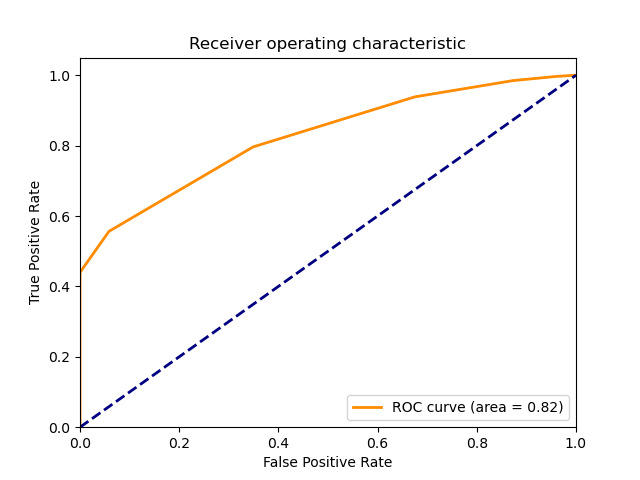
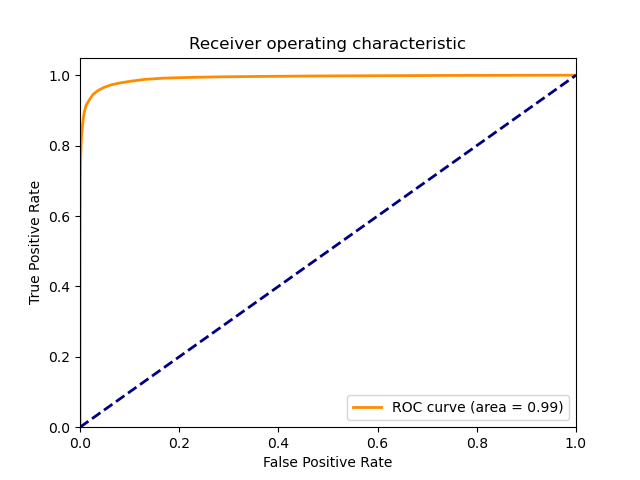
?

diff --git a/nets/ConvNext/convNext-cbam.py b/nets/ConvNext/convNext-cbam.py
@@ -1,0 +1,256 @@
+"""
+original code from facebook research:
+https://github.com/facebookresearch/ConvNeXt
+"""
+
+import torch
+import torch.nn as nn
+import torch.nn.functional as F
+
+
+class ChannelAttention(nn.Module):
+    def __init__(self, in_planes, ratio=16):
+        super(ChannelAttention, self).__init__()
+        self.avg_pool = nn.AdaptiveAvgPool2d(1)
+        self.max_pool = nn.AdaptiveMaxPool2d(1)
+
+        self.fc = nn.Sequential(nn.Conv2d(in_planes, in_planes // 16, 1, bias=True),
+                                nn.ReLU(),
+                                nn.Conv2d(in_planes // 16, in_planes, 1, bias=True))
+        self.sigmoid = nn.Sigmoid()
+
+    def forward(self, x):
+        avg_out = self.fc(self.avg_pool(x))
+        max_out = self.fc(self.max_pool(x))
+        out = avg_out + max_out
+        return self.sigmoid(out)
+
+
+class SpatialAttention(nn.Module):
+    def __init__(self, kernel_size=7):
+        super(SpatialAttention, self).__init__()
+
+        self.conv1 = nn.Conv2d(2, 1, kernel_size, padding=kernel_size // 2, bias=True)
+        self.sigmoid = nn.Sigmoid()
+
+    def forward(self, x):
+        avg_out = torch.mean(x, dim=1, keepdim=True)
+        max_out, _ = torch.max(x, dim=1, keepdim=True)
+        x = torch.cat([avg_out, max_out], dim=1)
+        x = self.conv1(x)
+        return self.sigmoid(x)
+
+def drop_path(x, drop_prob: float = 0., training: bool = False):
+    """Drop paths (Stochastic Depth) per sample (when applied in main path of residual blocks).
+
+    This is the same as the DropConnect impl I created for EfficientNet, etc networks, however,
+    the original name is misleading as 'Drop Connect' is a different form of dropout in a separate paper...
+    See discussion: https://github.com/tensorflow/tpu/issues/494#issuecomment-532968956 ... I've opted for
+    changing the layer and argument names to 'drop path' rather than mix DropConnect as a layer name and use
+    'survival rate' as the argument.
+
+    """
+    if drop_prob == 0. or not training:
+        return x
+    keep_prob = 1 - drop_prob
+    shape = (x.shape[0],) + (1,) * (x.ndim - 1)  # work with diff dim tensors, not just 2D ConvNets
+    random_tensor = keep_prob + torch.rand(shape, dtype=x.dtype, device=x.device)
+    random_tensor.floor_()  # binarize
+    output = x.div(keep_prob) * random_tensor
+    return output
+
+
+class DropPath(nn.Module):
+    """Drop paths (Stochastic Depth) per sample  (when applied in main path of residual blocks).
+    """
+    def __init__(self, drop_prob=None):
+        super(DropPath, self).__init__()
+        self.drop_prob = drop_prob
+
+    def forward(self, x):
+        return drop_path(x, self.drop_prob, self.training)
+
+
+class LayerNorm(nn.Module):
+    r""" LayerNorm that supports two data formats: channels_last (default) or channels_first.
+    The ordering of the dimensions in the inputs. channels_last corresponds to inputs with
+    shape (batch_size, height, width, channels) while channels_first corresponds to inputs
+    with shape (batch_size, channels, height, width).
+    """
+
+    def __init__(self, normalized_shape, eps=1e-6, data_format="channels_last"):
+        super().__init__()
+        self.weight = nn.Parameter(torch.ones(normalized_shape), requires_grad=True)
+        self.bias = nn.Parameter(torch.zeros(normalized_shape), requires_grad=True)
+        self.eps = eps
+        self.data_format = data_format
+        if self.data_format not in ["channels_last", "channels_first"]:
+            raise ValueError(f"not support data format '{self.data_format}'")
+        self.normalized_shape = (normalized_shape,)
+
+    def forward(self, x: torch.Tensor) -> torch.Tensor:
+        if self.data_format == "channels_last":
+            return F.layer_norm(x, self.normalized_shape, self.weight, self.bias, self.eps)
+        elif self.data_format == "channels_first":
+            # [batch_size, channels, height, width]
+            mean = x.mean(1, keepdim=True)
+            var = (x - mean).pow(2).mean(1, keepdim=True)
+            x = (x - mean) / torch.sqrt(var + self.eps)
+            x = self.weight[:, None, None] * x + self.bias[:, None, None]
+            return x
+
+
+class Block(nn.Module):
+    r""" ConvNeXt Block. There are two equivalent implementations:
+    (1) DwConv -> LayerNorm (channels_first) -> 1x1 Conv -> GELU -> 1x1 Conv; all in (N, C, H, W)
+    (2) DwConv -> Permute to (N, H, W, C); LayerNorm (channels_last) -> Linear -> GELU -> Linear; Permute back
+    We use (2) as we find it slightly faster in PyTorch
+
+    Args:
+        dim (int): Number of input channels.
+        drop_rate (float): Stochastic depth rate. Default: 0.0
+        layer_scale_init_value (float): Init value for Layer Scale. Default: 1e-6.
+    """
+    def __init__(self, dim, drop_rate=0., layer_scale_init_value=1e-6):
+        super().__init__()
+        self.dwconv = nn.Conv2d(dim, dim, kernel_size=7, padding=3, groups=dim)  # depthwise conv
+        self.norm = LayerNorm(dim, eps=1e-6, data_format="channels_last")
+        self.pwconv1 = nn.Linear(dim, 4 * dim)  # pointwise/1x1 convs, implemented with linear layers
+        self.act = nn.GELU()
+        self.pwconv2 = nn.Linear(4 * dim, dim)
+        self.ca = ChannelAttention(dim)
+        self.sa = SpatialAttention()
+
+        self.gamma = nn.Parameter(layer_scale_init_value * torch.ones((dim,)),
+                                  requires_grad=True) if layer_scale_init_value > 0 else None
+        self.drop_path = DropPath(drop_rate) if drop_rate > 0. else nn.Identity()
+
+    def forward(self, x: torch.Tensor) -> torch.Tensor:
+        shortcut = x
+        x = self.dwconv(x)
+        x = x.permute(0, 2, 3, 1)  # [N, C, H, W] -> [N, H, W, C]
+        x = self.norm(x)
+        x = self.pwconv1(x)
+        x = self.act(x)
+        x = self.pwconv2(x)
+        # x = self.ca(x) * x
+        # x = self.sa(x) * x
+        if self.gamma is not None:
+            x = self.gamma * x
+        x = x.permute(0, 3, 1, 2)  # [N, H, W, C] -> [N, C, H, W]
+
+        x = shortcut + self.drop_path(x)
+        return x
+
+
+class ConvNeXt(nn.Module):
+    r""" ConvNeXt
+        A PyTorch impl of : `A ConvNet for the 2020s`  -
+          https://arxiv.org/pdf/2201.03545.pdf
+    Args:
+        in_chans (int): Number of input image channels. Default: 3
+        num_classes (int): Number of classes for classification head. Default: 1000
+        depths (tuple(int)): Number of blocks at each stage. Default: [3, 3, 9, 3]
+        dims (int): Feature dimension at each stage. Default: [96, 192, 384, 768]
+        drop_path_rate (float): Stochastic depth rate. Default: 0.
+        layer_scale_init_value (float): Init value for Layer Scale. Default: 1e-6.
+        head_init_scale (float): Init scaling value for classifier weights and biases. Default: 1.
+    """
+    def __init__(self, in_chans: int = 3, num_classes: int = 1000, depths: list = None,
+                 dims: list = None, drop_path_rate: float = 0., layer_scale_init_value: float = 1e-6,
+                 head_init_scale: float = 1.):
+        super().__init__()
+        self.downsample_layers = nn.ModuleList()  # stem and 3 intermediate downsampling conv layers
+        stem = nn.Sequential(nn.Conv2d(in_chans, dims[0], kernel_size=4, stride=4),
+                             LayerNorm(dims[0], eps=1e-6, data_format="channels_first"))
+        self.downsample_layers.append(stem)
+
+        # 对应stage2-stage4前的3个downsample
+        for i in range(3):
+            downsample_layer = nn.Sequential(LayerNorm(dims[i], eps=1e-6, data_format="channels_first"),
+                                             nn.Conv2d(dims[i], dims[i+1], kernel_size=2, stride=2))
+            self.downsample_layers.append(downsample_layer)
+
+        self.stages = nn.ModuleList()  # 4 feature resolution stages, each consisting of multiple blocks
+        dp_rates = [x.item() for x in torch.linspace(0, drop_path_rate, sum(depths))]
+        cur = 0
+        # 构建每个stage中堆叠的block
+        for i in range(4):
+            stage = nn.Sequential(
+                *[Block(dim=dims[i], drop_rate=dp_rates[cur + j], layer_scale_init_value=layer_scale_init_value)
+                  for j in range(depths[i])]
+            )
+            self.stages.append(stage)
+            cur += depths[i]
+
+        self.norm = nn.LayerNorm(dims[-1], eps=1e-6)  # final norm layer
+        self.head = nn.Linear(dims[-1], num_classes)
+        self.apply(self._init_weights)
+        self.head.weight.data.mul_(head_init_scale)
+        self.head.bias.data.mul_(head_init_scale)
+
+    def _init_weights(self, m):
+        if isinstance(m, (nn.Conv2d, nn.Linear)):
+            nn.init.trunc_normal_(m.weight, std=0.2)
+            nn.init.constant_(m.bias, 0)
+
+    def forward_features(self, x: torch.Tensor) -> torch.Tensor:
+        for i in range(4):
+            x = self.downsample_layers[i](x)
+            x = self.stages[i](x)
+        #
+        return  self.norm(x.mean([-2, -1]))# global average pooling, (N, C, H, W) -> (N, C)
+
+    def forward(self, x: torch.Tensor) -> torch.Tensor:
+        x = self.forward_features(x)
+        x = self.head(x)
+        return x
+
+
+def convnext_tiny_cbam(embedding_size: int):
+    # https://dl.fbaipublicfiles.com/convnext/convnext_tiny_1k_224_ema.pth
+    model = ConvNeXt(depths=[3, 3, 9, 3],
+                     dims=[96, 192, 384, 768],
+                     num_classes=embedding_size)
+    return model
+
+
+def convnext_small(num_classes: int):
+    # https://dl.fbaipublicfiles.com/convnext/convnext_small_1k_224_ema.pth
+    model = ConvNeXt(depths=[3, 3, 27, 3],
+                     dims=[96, 192, 384, 768],
+                     num_classes=num_classes)
+    return model
+
+
+def convnext_base(num_classes: int):
+    # https://dl.fbaipublicfiles.com/convnext/convnext_base_1k_224_ema.pth
+    # https://dl.fbaipublicfiles.com/convnext/convnext_base_22k_224.pth
+    model = ConvNeXt(depths=[3, 3, 27, 3],
+                     dims=[128, 256, 512, 1024],
+                     num_classes=num_classes)
+    return model
+
+
+def convnext_large(num_classes: int):
+    # https://dl.fbaipublicfiles.com/convnext/convnext_large_1k_224_ema.pth
+    # https://dl.fbaipublicfiles.com/convnext/convnext_large_22k_224.pth
+    model = ConvNeXt(depths=[3, 3, 27, 3],
+                     dims=[192, 384, 768, 1536],
+                     num_classes=num_classes)
+    return model
+
+
+def convnext_xlarge(num_classes: int):
+    # https://dl.fbaipublicfiles.com/convnext/convnext_xlarge_22k_224.pth
+    model = ConvNeXt(depths=[3, 3, 27, 3],
+                     dims=[256, 512, 1024, 2048],
+                     num_classes=num_classes)
+    return model
+
+if __name__ == "__main__":
+    model = convnext_tiny(embedding_size=256)
+    x = torch.zeros([2,3,1024,1024])
+    out = model.forward(x)
+
+    print("test")

diff --git a/train.py b/train.py
@@ -44,7 +44,7 @@ if __name__ == "__main__":
     #--------------------------------------------------------#
     #   指向根目录下的cls_train.txt，读取人脸路径与标签
     #--------------------------------------------------------#
-    annotation_path = "cls_train.txt"
+    annotation_path = "cls_train-webocc.txt"
     #--------------------------------------------------------#
     #   输入图像大小
     #--------------------------------------------------------#
@@ -64,7 +64,7 @@ if __name__ == "__main__":
     #   如果使用mobilenetv1为主干,  则设置pretrain = True
     #   如果使用其它网络为主干，    则设置pretrain = False
     #--------------------------------------------------------#
-    backbone        = "mobilefacenet"
+    backbone        = "convNext"
     #----------------------------------------------------------------------------------------------------------------------------#
     #   如果训练过程中存在中断训练的操作，可以将model_path设置成logs文件夹下的权值文件，将已经训练了一部分的权值再次载入。
     #   同时修改下方的训练的参数，来保证模型epoch的连续性。
@@ -156,8 +156,8 @@ if __name__ == "__main__":
     #------------------------------------------------------------------#
     #   LFW评估数据集的文件路径和对应的txt文件
     #------------------------------------------------------------------#
-    lfw_dir_path    = "ROF/sunglasses"
-    lfw_pairs_path  = "ROF/glasses_pairs.txt"
+    lfw_dir_path    = "lfw"
+    lfw_pairs_path  = "model_data/lfw_pairs_test.txt"
 
     #------------------------------------------------------#
     #   设置用到的显卡

diff --git a/nets/arcface.py b/nets/arcface.py
@@ -1,5 +1,5 @@
 import math
-
+from nets.ConvNext.convNext-cbam import convnext_tiny_cbam
 import torch
 import torch.nn as nn
 import torch.nn.functional as F
@@ -48,6 +48,11 @@ class Arcface(nn.Module):
             embedding_size = 512
             s = 64
             self.arcface = convnext_tiny(embedding_size=embedding_size)
+
+        elif backbone == "convNext-cbam":
+            embedding_size = 512
+            s = 64
+            self.arcface = convnext_tiny_cbam(embedding_size=embedding_size)
 
         elif backbone=="mobilenetv1":
             embedding_size  = 512

diff --git a/txt_annotation.py b/txt_annotation.py
@@ -7,12 +7,12 @@ if __name__ == "__main__":
     #---------------------#
     #   训练集所在的路径
     #---------------------#
-    datasets_path   = "datasets"
+    datasets_path   = "D:\\Files\\dataset\\rec2img_masked"
 
     types_name      = os.listdir(datasets_path)
     # types_name      = sorted(types_name)
 
-    list_file = open('cls_train.txt', 'w')
+    list_file = open('cls_train-webocc.txt', 'w')
     for cls_id, type_name in enumerate(types_name):
         photos_path = os.path.join(datasets_path, type_name)
         if not os.path.isdir(photos_path):

diff --git a/nets/mobilefacenet.py b/nets/mobilefacenet.py
@@ -1,6 +1,6 @@
 from torch import nn
 from torch.nn import BatchNorm2d, Conv2d, Module, PReLU, Sequential
-
+import torch
 class Flatten(Module):
     def forward(self, input):
         return input.view(input.size(0), -1)
@@ -129,3 +129,11 @@ def get_mbf(embedding_size, pretrained):
     if pretrained:
         raise ValueError("No pretrained model for mobilefacenet")
     return MobileFaceNet(embedding_size)
+
+
+if __name__ == "__main__":
+    model = MobileFaceNet(embedding_size=1000)
+
+    x = torch.zeros([2,3,112,112])
+    out = model(x)
+    print("test")

diff --git a/utils/utils_fit.py b/utils/utils_fit.py
@@ -144,7 +144,7 @@ def fit_one_epoch(model_train, model, loss_history, optimizer, epoch, epoch_step
             print('Start Test')
 
         labels, distances = [], []
-        pbar = tqdm(enumerate(test_loader))
+        pbar = tqdm(enumerate(test_loader),total=epoch_step_val, desc=f'Epoch {epoch + 1}/{Epoch}')
         for batch_idx, (data_a, data_p, label) in pbar:
             with torch.no_grad():
                 data_a, data_p = data_a.type(torch.FloatTensor), data_p.type(torch.FloatTensor)

diff --git a/eval_LFW.py b/eval_LFW.py
@@ -30,7 +30,7 @@ if __name__ == "__main__":
     #--------------------------------------#
     #   训练好的权值文件
     #--------------------------------------#
-    model_path      = "model_data/ep001-loss32.042-val_loss23.146.pth"
+    model_path      = "D:\\Files\\arcface-pytorch\\result\\conv-webocc-lfw\ep036-loss18.593-val_loss18.595.pth"
     #--------------------------------------#
     #   LFW评估数据集的文件路径
     #   以及对应的txt文件
